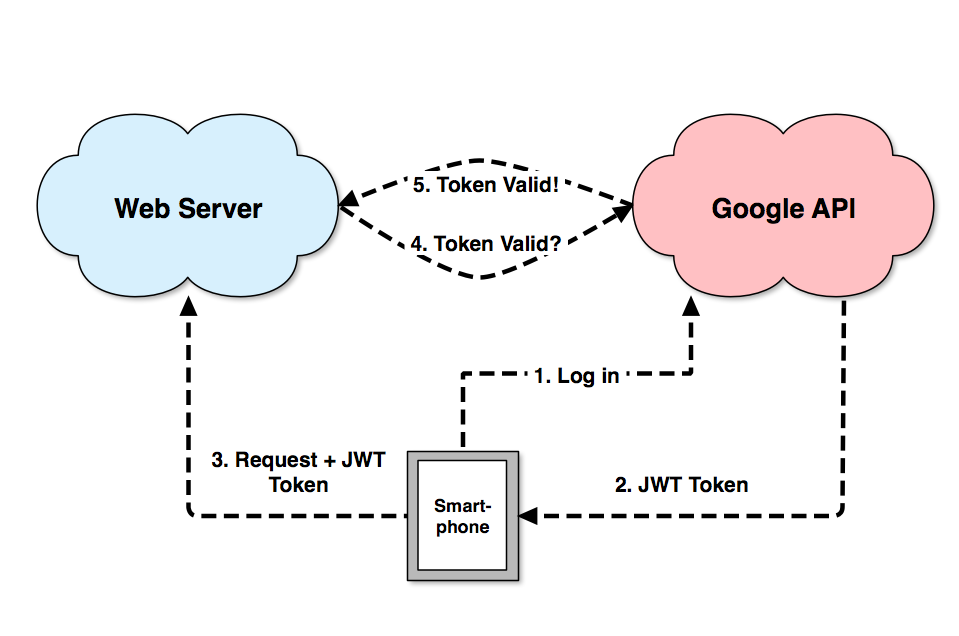
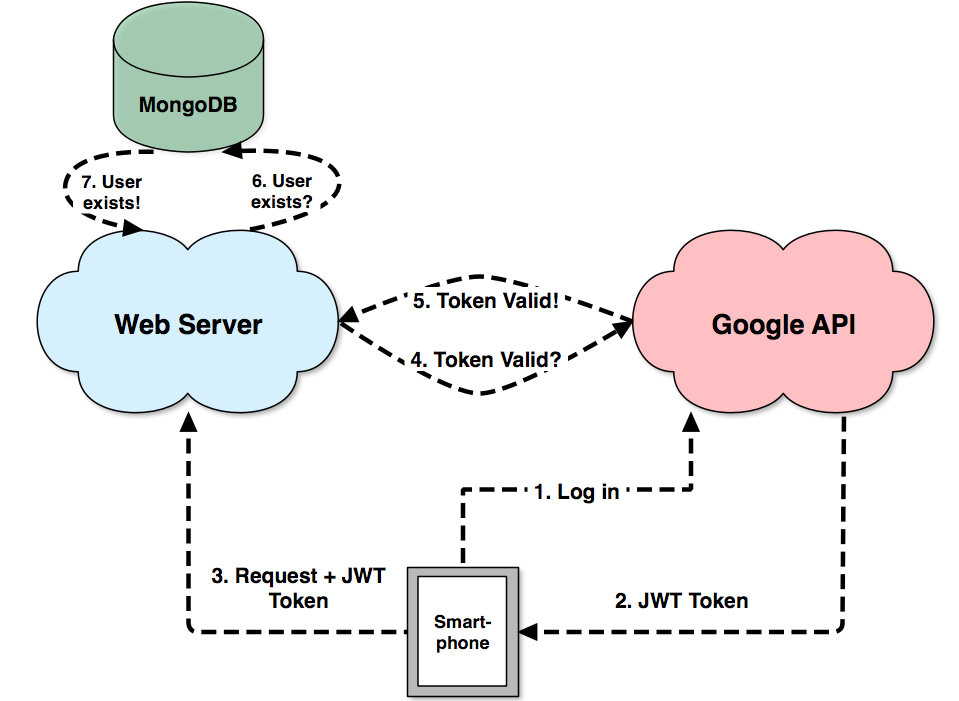
wrote about front-end

diff --git a/slip/report.md b/slip/report.md
@@ -10,9 +10,9 @@ Date:   January 15, 2015
 
 The goal of the WindSol project was to take measurements of solar intensity and wind speed in possibly remote locations and upload them to a server via a mobile application so they could be later analysed by the user with a web browser. <!-- with a web browser sounds weird -->
 
-To achieve our goal we needed to build a back-end web service that would be able to store the measurements sent from the app in persistent storage and serve them to a web client so they can be further analysed.
+To achieve our goal we needed to build a back-end web service that would be able to store the measurements sent from the mobile application in persistent storage and serve the measurements to a web client so they can be further analysed.
 
-We also needed to build a front-end application that would retrieve the measurements from the service and turn them into information useful to the user.
+We also needed to build a front-end application that would retrieve these measurements from the back-end service and turn them into information useful to the user.
 
 # Requirements
 
@@ -31,7 +31,7 @@ To make sure our final solution performed as it was supposed to we first perform
  
  - We wanted our server to be free.
  - Available on the whole of Internet, not just on LAN where the WindSol installation is located.
- - Preference for speed and ease of development rather server performance.
+ - Preference for ease of development rather than server performance.
  <!-- - I have worked with Python before and wanted to learn more about Javascript web frameworks. -->
 
 ## Front-end Application
@@ -42,7 +42,7 @@ To make sure our final solution performed as it was supposed to we first perform
  - Allow users to filter information by specifying a date range.
  - Allow deletion of uploads in case they were malformed.
  - Display where the measurements were taken on a map.
- - Allow addition and deletion of users so that new users can be authorised to upload data.
+ - Allow user management so that new users can be authorised to upload data.
  - Provide log in and log out actions so that users can authenticate.
 
 ### Non-functional Requirements
@@ -55,11 +55,11 @@ To make sure our final solution performed as it was supposed to we first perform
 
 ## Back-end Service
 
-Initially, we wanted to use the Dropbox Datastore API [^dropbox] for back-end which would greatly simplify most of the work. The users would be able to authenticate using Dropbox's implementation of the OAuth 2.0 protocol and measurements would have been stored in their Dropbox storage. Dropbox users get 2GB of space for free which would have been enough for our needs. However, we soon hit a roadblock when we found that an individual datastore can be at most 10 MB. <!-- link to docs here --> Querying over multiple datastores would be a hacky solution. <!-- rephrase hacky -->
+Initially, we wanted to use the Dropbox Datastore API [^dropbox] as a back-end which would greatly simplify most of the work. The users would be able to authenticate using Dropbox's implementation of the OAuth 2.0 protocol and measurements would be stored in their Dropbox storage. Dropbox users get 2GB of space for free which would have been enough for our needs. However, we soon hit a roadblock when we found that an individual datastore can be at most 10 MB [^roadblock].
 
-<!-- TODO: maybe remove the above completely -->
+We did not want to limit ourselves by this and so we looked for a similar service without this limitation. However, we could not find one with all the features that what we needed.
 
-We researched other services as well <!-- links here? --> but in the end none of them provided all the features that what we needed. We thus decided to build our own back-end service using a Javascript web framework Express.js [^expressjs] running on the Node.js [^nodejs] platform and a NoSQL database MongoDB[^mongodb]. Additionally, we used a key-value cache called Redis [^redis] to store temporal data. We hosted these services on top of a cloud application platform called Heroku [^heroku]. Heroku normally costs money but they have a free option which provided us with 512MB of RAM and one dyno (lightweight container specific to Heroku). This proved to be performant enough for our prototype.
+We thus decided to build our own back-end service using a Javascript web framework Express.js [^expressjs] running on the Node.js [^nodejs] platform and a NoSQL database MongoDB[^mongodb]. Additionally, we used a key-value cache called Redis [^redis] to store temporal data. We hosted these services on top of a cloud application platform called Heroku [^heroku]. Heroku normally costs money but they have a free option which provided us with 512MB of RAM and one dyno (lightweight container specific to Heroku). This proved to be performant enough for our prototype.
 
 ![Back-end Architecture](img/arch.png "Back-end Architecture")
 
@@ -69,42 +69,23 @@ The server code was developed in a Javascript web framework called Express.js wh
 
 #### Sharing Code
 
-Since the server and the client are both written in Javascript, there is a possibility of sharing code so that both front-end and back-end can use the same source code. This is one of the chief arguments for Node.js because it allows you to update front-end and back-end code in one place in one language.
+Since we planned to write both the server and the client in Javascript, there was a possibility of sharing code so that both front-end and back-end can use the same source code. This is one of the chief arguments for Node.js because it allows you to update front-end and back-end code in one place in one language.
 
 #### Event-driven non-blocking model
 
 Node.js is said to be "perfect for data-intensive real-time applications" [^nodejs]. We thought this was ideal for our purposes as we planned to upload measurements at a high rate.
 
+#### NPM Package Manager
+
+Node.js comes with a package manager called npm. This allowed us to install libraries that we used for back-end as well as front-end code with a single command. Moreover, all the libraries that we used are stored in a file so that if someone new wanted to work on the source code they would just run one command to install them all and be ready to develop.
+
 #### Ease and Speed of Development
 
-Even though mature web frameworks exist for Java and other statically typed languages, we dismissed them as we preferred the ease of development of web frameworks written in dynamically typed languages such as Python, Ruby and Javascript. This allowed for rapid progress.
+Even though mature web frameworks also exist for statically typed languages, we dismissed them as we preferred the ease of development of web frameworks written in dynamically typed languages. This allowed for rapid progress.
 
 #### Learning Value
 
 Having worked with Python frameworks such as Django and Flask before, we wanted to learn something new and see how it compares to the frameworks we know.
-
-Getting Express.js to render a view called `model` when a user hits the url `<host>/model` is as easy as:
-
-```
-app.get('/model', function(req, res) {
-  res.render('model');
-});
-```
-
-Alongside with Express.js we used a lot of third party libraries: 
-
- - `express-session`
- - `passport.js`
- - `connect-redis`
- - `logfmt`
- - `mongoose`
- - `googleapis`
- - `body-parser`
- - `jade`
- - `lodash`
- - `passport`
- - `passport-google-oauth`
- - `request`
 
 ### Persistent Storage
 
@@ -130,23 +111,23 @@ There is a free tier Redis add-on for Heroku provided by Redis Cloud [^redisclou
 
 ## Front-end Application
 
-We developed a single-page front-end application using Backbone.js [^backbonejs] and several other libraries that made things much easier for us.
+We developed a single-page front-end application using Backbone.js [^backbonejs] and several other libraries that made things much easier for us. We considered other using other software such as Angular.js or Ember.js but preferred Backbone for its minimalism and ease of of getting up to speed.
 
 ### Data Bindings
 
-We used Backbone.js to communicate with the back-end API. JSON data returned by the API was wrapped in Backbone collections and models. This allowed easy modification on client side which automatically fired off requests to the back-end.
+We used Backbone.js to communicate with the back-end API. JSON data returned by the API was wrapped in Backbone collections and models. This allowed easy model creation, deletion, and modification on client side which automatically fired off requests to the back-end and was thus reproduced in the database.
 
-### UI Framework
+### User Interface
 
 None of the members of our team had much experience with web design. This is why we decided to use Bootstrap [^bootstrap] to style our application with CSS. It is very easy to get started with Bootstrap and its basic components got us quite far so that the amount of web design we had to do ourselves was minimal.
+
+We used Highcharts [^highcharts] to create interactive charts for measurements data, Font Awesome [^fontawesome] for icons, and Pikaday [^pikaday] for a date-picker. Had we tried to develop these solutions ourselves it would take up lot of time and we would not be able to focus on more pressing issues.
 
 ### Build System
 
 The modules for the front-end were developed based on the CommonJS [^commonjs] module specification. This means that each module was defined in its own file and was imported by other modules as needed. This allowed us to develop each component of the front-end application separately and reduced coupling.
 
-However, instead of deploying all the modules to the web server in separate files which would mean that the web client would have to make a separate request to download each file they were bundled into one file by Browserify [^browserify]. They were then furthermore minimised using UglifyJS [^uglifyjs]. This not only reduced the strain on the web server but improved the experience for users.
-
-<!-- add note about how minimisation sped it up -->
+However, instead of deploying all the modules to the web server in separate files which would mean that the web client would have to make a separate request to download each file they were bundled into one file by Browserify [^browserify]. They were then furthermore minimised using UglifyJS [^uglifyjs]. This reduced the size of 23 files from 100 KB to around 32 KB. This reduced the strain on the web server as well as increased the responsiveness.
 
 The whole build process was automatic and we could build the whole bundled minimised application with just one command thanks to a build system called Gulp [^gulp].
 
@@ -158,7 +139,9 @@ Moreover, during development we made use of a plugin called Livereload [^liverel
 
 ### RESTful API
 
-We built a RESTful API that the Android application as well as the web client use to create, update or delete objects in the database. They do this with requests that may also contain JSON data to predefined endpoints. For example, these are the API endpoints for actions concerning users:
+The Android application sends measurements in JSON format to the following endpoint: `POST <host>/api/upload`. The measurements are then stored in the database associated with the user who sent the request.
+
+We built a RESTful API that the web client uses to create, update or delete objects in the database. It does this with requests that may also contain JSON data to predefined endpoints. For example, these are the API endpoints for actions concerning users:
 
 `POST <host>/api/user`
 
@@ -176,23 +159,21 @@ We built a RESTful API that the Android application as well as the web client us
 
 :   Deletes user with a specific id.
 
-Most of the API is used only by the web client. The Android application sends measurements in JSON format to the following endpoint: `POST <host>/api/upload`.
-
-To perform the actions that correspond to different requests the user needs to be authorised.
+Of course the API could be used by the Android application as well if there was need for it. To perform the actions that correspond to different requests the user needs to be authorised.
 
 ### Authorisation
 
-To ensure that only authorised users used the API we made use of the Google OAuth 2.0 protocol. In our prototype we assumed that once a user is authenticated she is also authorised to perform all the actions available from the API. There are two ways we use this protocol:
+To ensure that only authorised users use the API we made use of the Google OAuth 2.0 protocol. In our prototype we assumed that once a user is authenticated she is also authorised to perform all the actions exposed by the API. There are two ways we use this protocol:
 
 1. The user signs in through the web application.
 
-:   Assuming she is an authorized user (her email is already in the database) a session id is created and temporarily stored in the Redis cache and in the cookies of her browser. This cookie is then attached to all the requests of the user. Most of the hard work is handled by a library called Passport.js [^passportjs] as we know that writing security software is hard. The flow can be seen in the image below (steps after "Authorization code" can be ignored):
+:   Assuming she is an authorized user (her email is already in the database) a session id is created and temporarily stored in the Redis cache and in the cookies of her browser. This cookie is then attached to all the requests of the user. Most of the hard work is handled by a library called Passport.js [^passportjs] as we know that writing security software is hard. The user flow can be seen in the image below (steps after "Authorization code" can be ignored):
 
 ![Web Server Authentication with Google OAuth 2.0](img/google_auth.png "Web Server Authentication with Google OAuth 2.0")
 
 2. The user signs in through the Android application.
 
-:   The user then receives a JWT token which she sends along with her requests. When the server receives the token it verifies that it was signed by Google's private key. To do this the server requires Google's public key which it periodically retrieves using the OAuth library in Google's googleapis [^googleapis] package in npm. After the server verifies the token was signed by Google it can extract user information such as email from the token. The server then confirms that the request was sent by an authorised user by checking the database of users. The flow can be seen in the image below:
+:   The user then receives a JWT token which she sends along with her requests. When the server receives the token it verifies that it was signed by Google's private key. To do this the server requires Google's public key which it periodically retrieves using from Google's servers. Again, most of the hard work is handled by the OAuth library in Google's googleapis [^googleapis] npm package. After the server verifies the token was signed by Google it can extract user information such as email from the token. The server then confirms that the request was sent by an authorised user by checking the email against the database of users. The flow can be seen in the image below:
 
 ![Cross-client Identity Authentication with Google OAuth 2.0](img/auth.png "Cross-client Identity Authentication with Google OAuth 2.0")
 
@@ -230,11 +211,55 @@ User.create(data, function(err, obj) {
 });
 ```
 
-As you can see there is no validation code, it is done behind the scenes by mongoose.
+As you can see there is no validation code, it is performed behind the scenes by mongoose.
 
 ## Front-end Application
 
-The front-end is a single-page application that allows the user to ...
+The front-end application is a single-page application that allows the user to analyse measurements and manage uploads as well as users. It also provides a report on every installation. Users are able to access this application after successfully logging in with their Google account.
+
+### Uploads
+
+The user can view information about all the uploads that are in the system and associated meta-data such as who uploaded them, which location they were uploaded from, and date when they were uploaded:
+
+![List of Uploads](img/uploads.png "List of Uploads")
+
+The user can also perform actions on uploads i.e. view the raw data associated with an upload, delete an upload or view the location of the upload on a map:
+
+![Location of an Upload](img/map.png "Location of an Upload")
+
+### Solar Power
+
+There are two charts providing the user with an overview of solar measurements:
+
+![Solar Charts](img/solar.png "Solar Charts")
+
+The chart on the left shows irradiance in W/m&sup2; at any given point in time. There are three lines as we had three types of diodes. These numbers are a crude estimate, however, as the diodes were not calibrated perfectly.
+
+The chart on the right provides the user with average irradiance in every direction and thus shows him which direction is the most optimal one.
+
+### Wind Power
+
+Similarly to solar power there are two charts providing the user with an overview of wind speed measurements:
+
+![Wind Speed Charts](img/wind.png "Wind Speed Charts")
+
+The chart on the left shows wind speed in m/s at any given point in time. The chart on the right shows average wind speed in every direction and thus informs the user about where the strongest wind is coming from.
+
+### Devices
+
+The user can also view a report that contains information specific to a certain installation. This report provides the user with a date range when the installation was taking measurements as well as what the most optimal orientation would be:
+
+![Device Report](img/devices.png "Device Report")
+
+### Users
+
+The user can view names and emails of all the users in the system:
+
+![User Management](img/user.png "User Management")
+
+Moreover, the user can also perform actions such as deleting or adding a new user:
+
+![Adding a New User](img/add_user.png "Adding a New User")
 
 # Testing
 
@@ -278,3 +303,7 @@ Currently our system displays only basic information about measurements. It repo
 [^uglifyjs]: UglifyJS, [https://github.com/mishoo/UglifyJS](https://github.com/mishoo/UglifyJS)
 [^gulp]: Gulp, [http://gulpjs.com](http://gulpjs.com)
 [^googleapis]: googleapis, [https://www.npmjs.com/package/googleapis](https://www.npmjs.com/package/googleapis)
+[^roadblock]: Dropbox Datastore API Documentation [https://www.dropbox.com/developers/datastore/docs](https://www.dropbox.com/developers/datastore/docs)
+[^fontawesome]: Font Awesome, [http://fortawesome.github.io/Font-Awesome/](http://fortawesome.github.io/Font-Awesome/)
+[^pikaday]: Pikaday, [http://dbushell.github.io/Pikaday/](http://dbushell.github.io/Pikaday/)
+[^highcharts]: Highcharts, [http://www.highcharts.com](http://www.highcharts.com)
